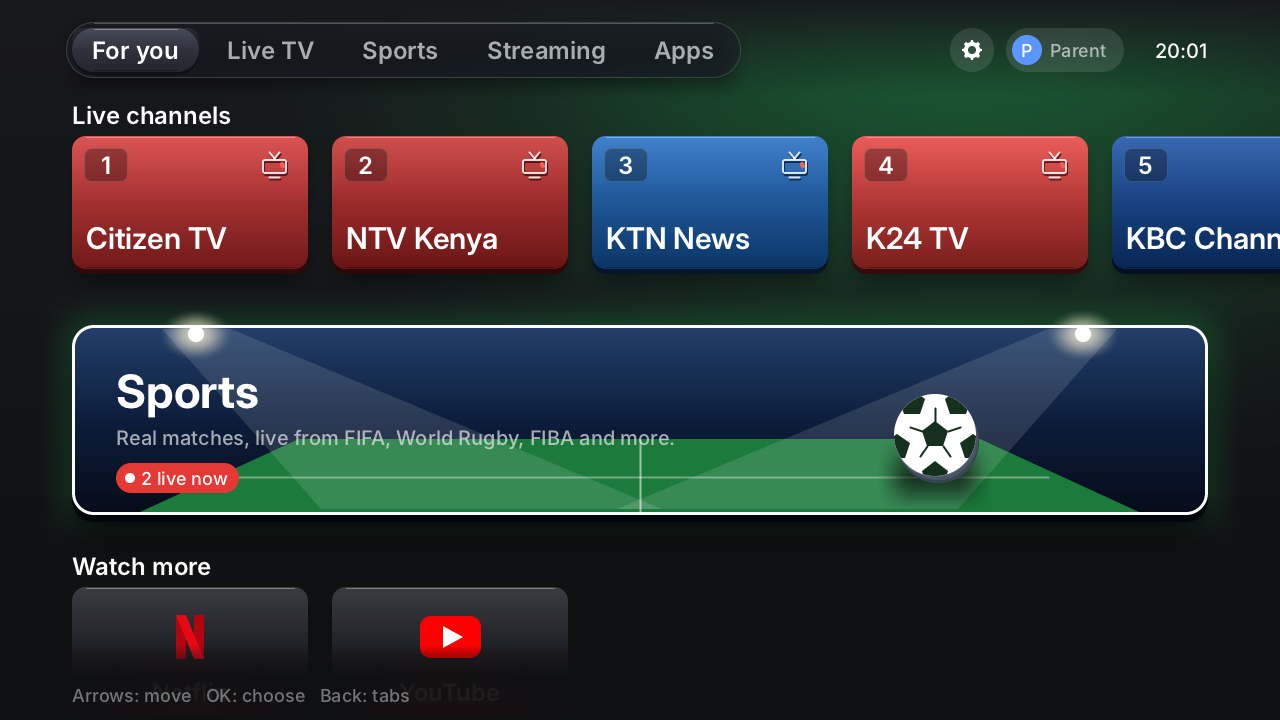
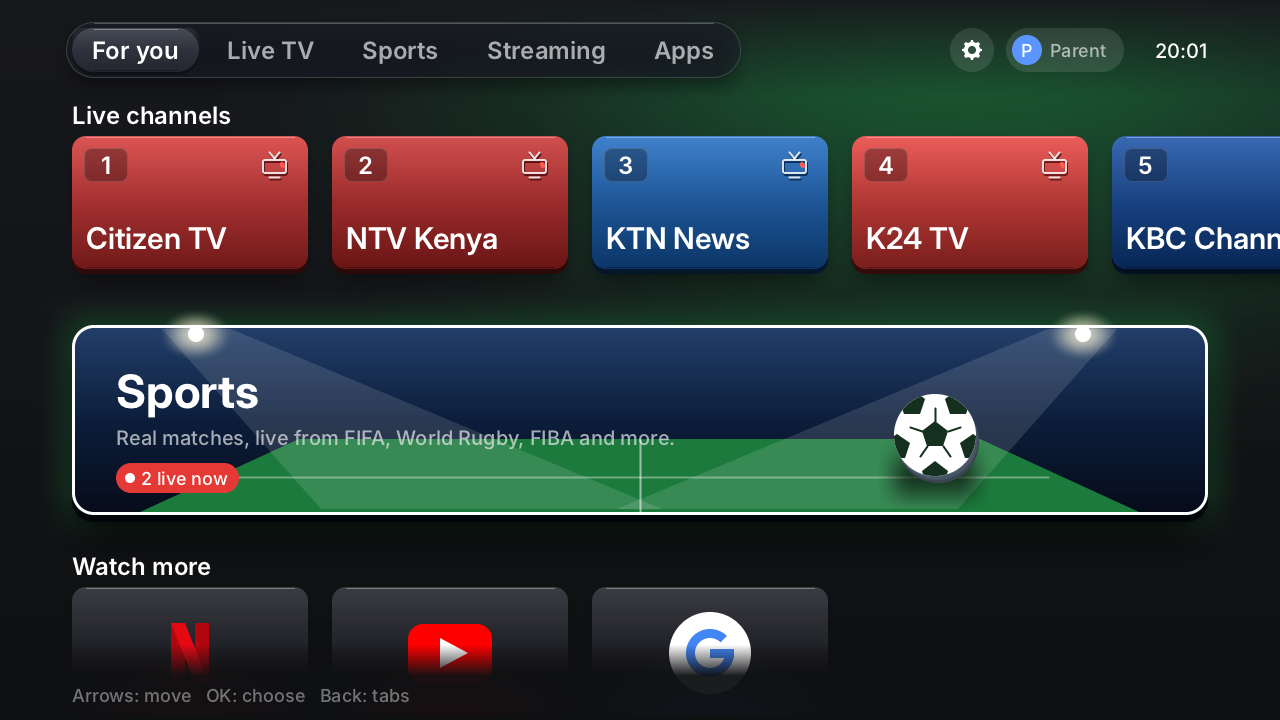
Google search beside YouTube and Netflix
A Google tile (a blue G on a white disc) on the Streaming tab and in
Watch more opens the real google.com inside the Family TV window, like
the other two. Parents only: a search reaches everything.

Changed region(s): [[0.4375, 0.7944, 0.6562, 0.9472], [0.3125, 0.8556, 0.4062, 0.9472], [0.125, 0.8556, 0.1875, 0.9472]]

diff --git a/ui/view.c b/ui/view.c
@@ -743,15 +743,20 @@ static art_id card_art(shell_card k)
 }
 
 /* Streaming services show their name, never a logo. */
+static art_id app_art(int app)
+{
+    return app == APP_NETFLIX ? ART_NETFLIX : app == APP_GOOGLE ? ART_GOOGLE : ART_YOUTUBE;
+}
+
 static void app_tile(ft_canvas *c, ft_rect r, int app, int focused, int tx, int ty)
 {
-    ft_color accent = app == APP_NETFLIX ? FT_RGB(0xE50914) : FT_RGB(0xFF0000);
+    ft_color accent = app == APP_NETFLIX ? FT_RGB(0xE50914) : app == APP_GOOGLE ? FT_RGB(0x4285F4) : FT_RGB(0xFF0000);
     ft_canvas clip;
     int ox, oy;
     art_slab(c, r, 14, FT_RGB(0x2C2D34), FT_RGB(0x0F1013), focused, tx, ty);
     if (canvas_clip(c, (ft_rect){r.x + 4, r.y + 4, r.w - 8, r.h - 8}, &clip, &ox, &oy)) /* the brand colour glows up */
         canvas_glow(&clip, r.x + r.w / 2 - ox, r.y + r.h - oy, r.w * 6 / 10, r.h * 5 / 10, color_alpha(accent, 0x99));
-    art_glyph(c, app == APP_NETFLIX ? ART_NETFLIX : ART_YOUTUBE, r.x + r.w / 2, r.y + r.h / 2, r.h * 36 / 100,
+    art_glyph(c, app_art(app), r.x + r.w / 2, r.y + r.h / 2, r.h * 36 / 100,
               COL_TEXT);
 }
 
@@ -914,7 +919,7 @@ static ft_color card_accent(const shell *s, shell_card k)
 {
     switch (k.kind) {
     case CARD_CHANNEL: return s->cfg.channels.ch[k.arg].accent;
-    case CARD_APP: return FT_RGB(0xE50914);
+    case CARD_APP: return k.arg == APP_GOOGLE ? FT_RGB(0x4285F4) : FT_RGB(0xE50914);
     case CARD_SPORT: return s->cfg.sports.ch[k.arg].accent;
     case CARD_SPORTS:
     case CARD_FOUND:
@@ -1315,7 +1320,7 @@ void view_web_bar(ft_canvas *c, int app, int back_focused, const char *clock_tex
         canvas_line(c, back.x + 20, ay, back.x + 28, ay + 8, 3, ink);
         canvas_text(c, &font_label, back.x + 50, back.y + (back.h - font_label.line_height) / 2, "Family TV", ink);
     }
-    art_glyph(c, app == APP_NETFLIX ? ART_NETFLIX : ART_YOUTUBE, x + 16, VIEW_WEB_BAR_H / 2, 14, COL_TEXT);
+    art_glyph(c, app_art(app), x + 16, VIEW_WEB_BAR_H / 2, 14, COL_TEXT);
     canvas_text(c, &font_label, x + 44, (VIEW_WEB_BAR_H - font_label.line_height) / 2, name, COL_TEXT);
     if (clock_text)
         canvas_text_right(c, &font_body, VIEW_W - 24, (VIEW_WEB_BAR_H - font_body.line_height) / 2, clock_text,

diff --git a/ui/art.c b/ui/art.c
@@ -22,6 +22,7 @@ static const struct {
     {FT_RGB(0x8590A3), FT_RGB(0x394152)}, /* Search */
     {FT_RGB(0xFF3B3B), FT_RGB(0xB3001B)}, /* YouTube */
     {FT_RGB(0xE50914), FT_RGB(0x8A050C)}, /* Netflix */
+    {FT_RGB(0x4285F4), FT_RGB(0x1A56C4)}, /* Google */
 };
 
 /* cos and sin of k * 22.5 degrees, times 1000 (gear teeth). */
@@ -257,6 +258,17 @@ static void netflix_mark(ft_canvas *c, int cx, int cy, int s)
     canvas_polygon(c, slant, 4, FT_RGB(0xE50914));
 }
 
+/* A blue G on a white disc: a ring opened at the upper right, and a bar. */
+static void google_mark(ft_canvas *c, int cx, int cy, int s)
+{
+    int r = P(s, 52), t = P(s, 20) < 2 ? 2 : P(s, 20);
+    int gap[6] = {cx, cy, cx + 2 * r, cy - 2 * r, cx + 2 * r, cy - P(s, 4)};
+    canvas_circle(c, cx, cy, P(s, 88), COL_TEXT);
+    canvas_ring(c, cx, cy, r, t, FT_RGB(0x4285F4));
+    canvas_polygon_in_circle(c, gap, 3, cx, cy, r + 1, COL_TEXT);
+    canvas_fill(c, (ft_rect){cx, cy - t / 2, r, t}, FT_RGB(0x4285F4));
+}
+
 void art_glyph(ft_canvas *c, art_id id, int cx, int cy, int s, ft_color ink)
 {
     int i;
@@ -281,6 +293,7 @@ void art_glyph(ft_canvas *c, art_id id, int cx, int cy, int s, ft_color ink)
     case ART_SEARCH: magnifier(c, cx, cy, s, ink); break;
     case ART_YOUTUBE: youtube_mark(c, cx, cy, s); break;
     case ART_NETFLIX: netflix_mark(c, cx, cy, s); break;
+    case ART_GOOGLE: google_mark(c, cx, cy, s); break;
     case ART_COUNT:
         break;
     }
@@ -326,7 +339,8 @@ void art_slab(ft_canvas *c, ft_rect r, int radius, ft_color top, ft_color bottom
  * colours, so they get a soft shadow instead. */
 static int one_ink(art_id id)
 {
-    return id != ART_RACER && id != ART_PENALTY && id != ART_GARDEN && id != ART_YOUTUBE && id != ART_NETFLIX;
+    return id != ART_RACER && id != ART_PENALTY && id != ART_GARDEN && id != ART_YOUTUBE && id != ART_NETFLIX &&
+           id != ART_GOOGLE;
 }
 
 void art_glyph_3d(ft_canvas *c, art_id id, int cx, int cy, int s, ft_color ink, ft_color edge)

diff --git a/ui/shell.c b/ui/shell.c
@@ -7,8 +7,9 @@ static const ft_str GAME_NAME[GAME_COUNT] = {STR_GAME_RACER, STR_GAME_PENALTY, S
 static const ft_str TAB_NAME[TAB_COUNT] = {STR_FOR_YOU, STR_LIVE_TV, STR_SPORTS, STR_YOUTUBE, STR_APPS};
 static const char KEY_CHARS[] = "abcdefghijklmnopqrstuvwxyz0123456789";
 static const ft_str QUALITY_LABEL[] = {STR_QUALITY_360, STR_QUALITY_480, STR_QUALITY_720, STR_QUALITY_1080};
-static const char *const APP_NAME[APP_COUNT] = {"Netflix", "YouTube"};
-static const char *const APP_URL[APP_COUNT] = {"https://www.netflix.com/browse", "https://www.youtube.com/"};
+static const char *const APP_NAME[APP_COUNT] = {"Netflix", "YouTube", "Google"};
+static const char *const APP_URL[APP_COUNT] = {"https://www.netflix.com/browse", "https://www.youtube.com/",
+                                               "https://www.google.com/"};
 #define QUALITY_LABELS ((int)(sizeof QUALITY_LABEL / sizeof QUALITY_LABEL[0]))
 
 typedef struct {
@@ -210,8 +211,8 @@ static void sports_rows(const shell *s, shell_row *out, int *n, int max)
     }
 }
 
-/* YouTube and Netflix are the real sites in a window of their own, so this
- * tab is only the way to them. They reach everything: parents only. */
+/* YouTube, Netflix and Google are the real sites shown inside Family TV, so
+ * this tab is only the way to them. They reach everything: parents only. */
 static void youtube_rows(const shell *s, shell_row *out, int *n, int max)
 {
     shell_row *r = new_row(out, n, max, ROW_CARDS, STR_YOUTUBE);

diff --git a/ui/shell.h b/ui/shell.h
@@ -19,8 +19,8 @@ typedef enum { TAB_FOR_YOU, TAB_LIVE, TAB_SPORTS, TAB_YOUTUBE, TAB_APPS, TAB_COU
 enum { TOP_GEAR = TAB_COUNT, TOP_PROFILE, TOP_COUNT };
 
 typedef enum { SCR_HOME, SCR_MORE, SCR_SETTINGS, SCR_PIN, SCR_KEYBOARD } shell_screen;
-/* Streaming services opened in the web browser with the family's own account. */
-typedef enum { APP_NETFLIX, APP_YOUTUBE, APP_COUNT } app_id;
+/* Real sites shown inside Family TV (sim/web.h), with the family's own accounts. */
+typedef enum { APP_NETFLIX, APP_YOUTUBE, APP_GOOGLE, APP_COUNT } app_id;
 typedef enum { GAME_RACER, GAME_PENALTY, GAME_GARDEN, GAME_COUNT } game_id;
 typedef enum { PROFILE_PARENT, PROFILE_CHILD } profile_role;
 typedef enum { PIN_FOR_PARENT, PIN_FOR_SETTINGS, PIN_NEW_FIRST, PIN_NEW_CONFIRM } pin_purpose;

diff --git a/tests/unit/test_core.c b/tests/unit/test_core.c
@@ -551,6 +551,7 @@ static void test_streaming_tab(void)
     CHECK(a.act == ACT_OPEN_APP && a.arg == APP_YOUTUBE && s.tab == TAB_YOUTUBE); /* no tab of our own */
     CHECK(session_dispatch(&ss, &s, a) == SESSION_OPEN_APP);
     CHECK(strstr(shell_app_url(APP_YOUTUBE), "youtube.com") != NULL);
+    CHECK(strcmp(shell_app_name(APP_GOOGLE), "Google") == 0 && strstr(shell_app_url(APP_GOOGLE), "google.com") != NULL);
     shell_type(&s, 'g'); /* typing starts nothing */
     CHECK(s.screen == SCR_HOME);
     s.cfg.profile = PROFILE_CHILD;

diff --git a/ui/art.h b/ui/art.h
@@ -9,7 +9,7 @@
 typedef enum {
     ART_LIVE_TV, ART_FOOTBALL, ART_GAMES, ART_MORE,
     ART_SETTINGS, ART_RACER, ART_PENALTY, ART_GARDEN, ART_PROFILE, ART_CHANNELS,
-    ART_GEAR, ART_INFO, ART_VOLUME, ART_PLAY, ART_SEARCH, ART_YOUTUBE, ART_NETFLIX,
+    ART_GEAR, ART_INFO, ART_VOLUME, ART_PLAY, ART_SEARCH, ART_YOUTUBE, ART_NETFLIX, ART_GOOGLE,
     ART_COUNT
 } art_id;
 
